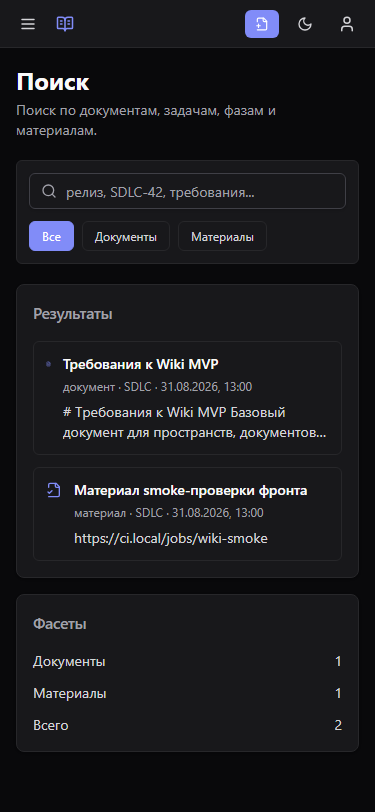
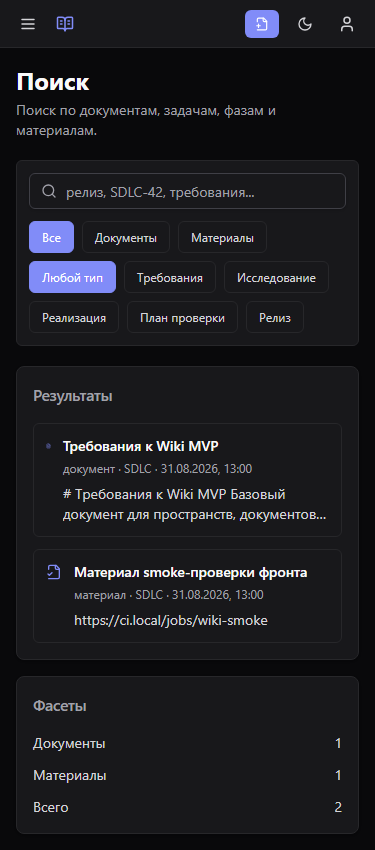
feat: add wiki search type filter

diff --git a/frontend/src/pages/wiki-search/index.tsx b/frontend/src/pages/wiki-search/index.tsx
@@ -8,10 +8,19 @@ import { Input } from '@/shared/ui/input'
 import { formatDateTime } from '@/shared/lib/wiki-format'
 import type { SearchResult } from '@/api/wiki'
 
-const filters = [
+const resultTypeFilters = [
   { label: 'Все', value: 'all' },
   { label: 'Документы', value: 'document' },
   { label: 'Материалы', value: 'evidence' },
+]
+
+const documentTypeFilters = [
+  { label: 'Любой тип', value: 'all' },
+  { label: 'Требования', value: 'requirements' },
+  { label: 'Исследование', value: 'research_note' },
+  { label: 'Реализация', value: 'implementation_note' },
+  { label: 'План проверки', value: 'test_plan' },
+  { label: 'Релиз', value: 'release_note' },
 ]
 
 function resultIcon(type: string) {
@@ -33,13 +42,19 @@ function countResults(results: SearchResult[], type: string) {
 
 export function WikiSearchPage() {
   const [query, setQuery] = useState('')
-  const [filter, setFilter] = useState('all')
-  const searchQuery = useWikiSearch({ q: query, space: defaultSpaceKey, limit: 25 })
+  const [resultTypeFilter, setResultTypeFilter] = useState('all')
+  const [documentTypeFilter, setDocumentTypeFilter] = useState('all')
+  const searchQuery = useWikiSearch({
+    q: query,
+    space: defaultSpaceKey,
+    document_type: documentTypeFilter === 'all' ? undefined : documentTypeFilter,
+    limit: 25,
+  })
   const results = useMemo(() => searchQuery.data?.results ?? [], [searchQuery.data?.results])
   const filteredResults = useMemo(() => {
-    if (filter === 'all') return results
-    return results.filter((result) => result.result_type === filter)
-  }, [filter, results])
+    if (resultTypeFilter === 'all') return results
+    return results.filter((result) => result.result_type === resultTypeFilter)
+  }, [resultTypeFilter, results])
 
   return (
     <div className="space-y-5">
@@ -60,21 +75,39 @@ export function WikiSearchPage() {
             placeholder="релиз, SDLC-42, требования..."
           />
         </div>
-        <div className="flex flex-wrap gap-2">
-          {filters.map((item) => (
-            <button
-              key={item.value}
-              type="button"
-              className={`rounded-md border px-3 py-1.5 text-xs ${
-                filter === item.value
-                  ? 'border-accent bg-accent text-white'
-                  : 'border-border text-text-secondary hover:bg-surface-raised'
-              }`}
-              onClick={() => setFilter(item.value)}
-            >
-              {item.label}
-            </button>
-          ))}
+        <div className="space-y-2">
+          <div className="flex flex-wrap gap-2">
+            {resultTypeFilters.map((item) => (
+              <button
+                key={item.value}
+                type="button"
+                className={`min-h-8 rounded-md border px-3 py-1.5 text-xs ${
+                  resultTypeFilter === item.value
+                    ? 'border-accent bg-accent text-white'
+                    : 'border-border text-text-secondary hover:bg-surface-raised'
+                }`}
+                onClick={() => setResultTypeFilter(item.value)}
+              >
+                {item.label}
+              </button>
+            ))}
+          </div>
+          <div className="flex flex-wrap gap-2">
+            {documentTypeFilters.map((item) => (
+              <button
+                key={item.value}
+                type="button"
+                className={`min-h-8 rounded-md border px-3 py-1.5 text-xs ${
+                  documentTypeFilter === item.value
+                    ? 'border-accent bg-accent text-white'
+                    : 'border-border text-text-secondary hover:bg-surface-raised'
+                }`}
+                onClick={() => setDocumentTypeFilter(item.value)}
+              >
+                {item.label}
+              </button>
+            ))}
+          </div>
         </div>
       </section>
 

diff --git a/frontend/e2e/smoke.spec.ts b/frontend/e2e/smoke.spec.ts
@@ -93,6 +93,8 @@ function routeJson(route: Route, body: unknown, status = 200) {
 }
 
 async function installWikiApiMocks(page: Page) {
+  const searchRequests: string[] = []
+
   await page.route('**/api/v1/**', (route) => {
     const request = route.request()
     const url = new URL(request.url())
@@ -192,6 +194,7 @@ async function installWikiApiMocks(page: Page) {
       })
     }
     if (method === 'GET' && path === '/search') {
+      searchRequests.push(url.search)
       return routeJson(route, {
         results: [
           {
@@ -218,11 +221,13 @@ async function installWikiApiMocks(page: Page) {
 
     return routeJson(route, { error: `Unhandled mock route ${method} ${path}` }, 404)
   })
+
+  return { searchRequests }
 }
 
 test.describe('wiki smoke', () => {
   test('login and navigate through wiki shell pages', async ({ page }) => {
-    await installWikiApiMocks(page)
+    const apiMocks = await installWikiApiMocks(page)
     await page.goto(`${baseURL}/login`)
     await page.getByRole('textbox').nth(0).fill('demo@example.com')
     await page.getByRole('textbox').nth(1).fill('demo')
@@ -246,5 +251,11 @@ test.describe('wiki smoke', () => {
 
     await page.goto(`${baseURL}/search`)
     await expect(page.getByRole('heading', { name: 'Поиск' })).toBeVisible()
+    await page.getByRole('button', { name: 'Требования', exact: true }).click()
+    await expect
+      .poll(() =>
+        apiMocks.searchRequests.some((query) => query.includes('document_type=requirements')),
+      )
+      .toBe(true)
   })
 })

diff --git a/backend/cli/src/main.rs b/backend/cli/src/main.rs
@@ -272,6 +272,8 @@ enum SearchCommands {
         task: Option<String>,
         #[arg(long)]
         phase: Option<String>,
+        #[arg(long = "type")]
+        document_type: Option<String>,
     },
 }
 
@@ -596,12 +598,14 @@ async fn execute_search(api: &ApiClient, command: SearchCommands) -> Result<Valu
             space,
             task,
             phase,
+            document_type,
         } => {
             let query = query_string([
                 ("q", Some(query)),
                 ("space", space),
                 ("task_key", task),
                 ("phase_key", phase),
+                ("document_type", document_type),
             ]);
             api.get(&format!("/search{}", query)).await
         }
@@ -857,6 +861,7 @@ mod tests {
                     space: Some("SDLC KB".to_string()),
                     task: Some("SDLC-42".to_string()),
                     phase: Some("testing".to_string()),
+                    document_type: Some("requirements".to_string()),
                 },
             },
         )
@@ -869,7 +874,7 @@ mod tests {
         assert_eq!(requests[0].method, Method::GET);
         assert_eq!(
             requests[0].path,
-            "/api/v1/search?q=release%20gate&space=SDLC%20KB&task_key=SDLC-42&phase_key=testing"
+            "/api/v1/search?q=release%20gate&space=SDLC%20KB&task_key=SDLC-42&phase_key=testing&document_type=requirements"
         );
         assert_eq!(
             requests[0].authorization.as_deref(),

diff --git a/docs/CURRENT_STATE.md b/docs/CURRENT_STATE.md
@@ -9,7 +9,7 @@
 | Repository scaffold        | Current | `task-tracker` code copied into `wiki`; `.git` from Wiki preserved                                                                                                                                                                                                                                                                       |
 | Product requirements       | Current | `docs/PRODUCT_REQUIREMENTS.md` defines the reduced base Wiki scope                                                                                                                                                                                                                                                                       |
 | Documentation set          | Current | CI/CD-style document set prepared for Wiki                                                                                                                                                                                                                                                                                               |
-| CLI shape                  | Current | `wiki` CLI command surface drafted for public API operations; mocked HTTP smoke tests cover filtered search, document create and file-evidence upload/claim request flow                                                                                                                                                                 |
+| CLI shape                  | Current | `wiki` CLI command surface drafted for public API operations; mocked HTTP smoke tests cover filtered search including `document_type`, document create and file-evidence upload/claim request flow                                                                                                                                       |
 | API runtime                | Current | Runtime router and OpenAPI expose Wiki MVP endpoints only; memory fallback remains for fast tests, while real server config with `WIKI_DATABASE__URL` uses SQLx/PostgreSQL for MVP operations                                                                                                                                            |
 | Registration policy        | Current | Public `/auth/register` is controlled by `WIKI_AUTH__REGISTRATION_ENABLED`; disabled registration returns `403` in memory and PostgreSQL runtime modes                                                                                                                                                                                   |
 | Domain baseline            | Current | `domain::wiki` defines Wiki-owned value objects, roles, documents, revisions, evidence, attachments and core invariants                                                                                                                                                                                                                  |
@@ -18,7 +18,7 @@
 | Attachment storage port    | Current | Attachment bytes are written/read through `domain::wiki::WikiAttachmentStorage`; server wires `infra::LocalWikiAttachmentStorage` for the PostgreSQL runtime, and local storage rejects unsafe or platform-ambiguous storage keys                                                                                                        |
 | Wiki app helpers           | Current | Shared Wiki normalization, role/access predicates, Markdown text extraction, checksums, safe download names, password hashing, Wiki JWT/session token helpers and access/refresh token-pair TTL assembly live in `app::wiki` instead of private API route helpers; the API crate no longer declares direct Wiki auth crypto dependencies |
 | Frontend route shell       | Current | Wiki MVP routes and screenshots exist for the approved page set only                                                                                                                                                                                                                                                                     |
-| Frontend API-backed pages  | Current | Dashboard, spaces, documents, tasks, phases, evidence, templates, users, audit and search read from the public Wiki API; create document, create user, URL evidence and file evidence forms call the same API                                                                                                                            |
+| Frontend API-backed pages  | Current | Dashboard, spaces, documents, tasks, phases, evidence, templates, users, audit and search read from the public Wiki API; search sends the MVP `document_type` filter; create document, create user, URL evidence and file evidence forms call the same API                                                                               |
 | Page design contract       | Current | `docs/PAGE_DESIGN.md` fixes page composition, states and deferred boundaries before backend work                                                                                                                                                                                                                                         |
 | Refined MVP page design    | Current | Spaces, documents, tasks, phases, evidence and search pages include API-ready layouts and metadata blocks                                                                                                                                                                                                                                |
 | Screenshot evidence        | Current | 17 desktop and 5 mobile screenshots regenerated for the MVP page set                                                                                                                                                                                                                                                                     |
@@ -105,6 +105,7 @@ Latest verification on 2026-08-31:
 - `wsl bash -lc 'cargo fmt --manifest-path backend/Cargo.toml --all -- --check'`, `wsl bash -lc 'cargo check --manifest-path backend/Cargo.toml -p shared -p app -p api -p server'`, `wsl bash -lc 'cargo test --manifest-path backend/Cargo.toml -p shared -- --nocapture'`, `wsl bash -lc 'cargo test --manifest-path backend/Cargo.toml -p app wiki_ -- --nocapture'`, `wsl bash -lc 'cargo test --manifest-path backend/Cargo.toml -p api -- --test-threads=1 --nocapture'`, `wsl bash -lc 'cargo clippy --manifest-path backend/Cargo.toml -p shared -p app -p api --all-targets -- -D warnings'`, `wsl bash -lc 'cargo run --manifest-path backend/Cargo.toml -p api --bin openapi-gen -- openapi/openapi.json'`, host `npm run typecheck`, `npm run test`, `npm run lint`, `npm run format:check` and `npm run build` passed after adding the `WIKI_AUTH__REGISTRATION_ENABLED` gate; WSL PostgreSQL smoke still skips without `WIKI_TEST_DATABASE_URL`.
 - `wsl bash -lc 'cargo fmt --manifest-path backend/Cargo.toml --all -- --check'`, `wsl bash -lc 'cargo check --manifest-path backend/Cargo.toml -p shared -p app -p api -p server'`, `wsl bash -lc 'cargo test --manifest-path backend/Cargo.toml -p api -- --test-threads=1 --nocapture'` and `wsl bash -lc 'cargo clippy --manifest-path backend/Cargo.toml -p app -p api --all-targets -- -D warnings'` passed after adding an explicit PostgreSQL-mode API test for disabled public registration. The new test is present but skips in WSL when `WIKI_TEST_DATABASE_URL` is unset.
 - Attempted to start the dedicated `backend/docker-compose.test.yml` PostgreSQL service on `127.0.0.1:3458`, but host Docker CLI calls (`docker compose`, `docker ps`) did not return status and were interrupted. `Test-NetConnection 127.0.0.1 -Port 3458` reported the test DB port closed, so PostgreSQL-backed registration smoke remains blocked by the local Docker environment in this run.
+- `wsl bash -lc 'cargo fmt --manifest-path backend/Cargo.toml --all -- --check'`, `wsl bash -lc 'cargo test --manifest-path backend/Cargo.toml -p wiki-cli -- --nocapture'`, `wsl bash -lc 'cargo clippy --manifest-path backend/Cargo.toml -p wiki-cli --all-targets -- -D warnings'`, host `npm run typecheck`, `npm run test`, `npm run build`, `npm run lint`, `npm run format:check`, `npx playwright test --project=chromium` and `npm run shoot:evidence` passed after wiring the MVP `document_type` search filter through CLI and UI. Screenshot reference and dimension checks passed for 22 PNGs.
 - `wsl bash -lc 'cargo tree --manifest-path backend/Cargo.toml -p api -e normal --depth 1'` confirms the API crate has no direct `argon2`, `jsonwebtoken`, `sha2`, `hex`, `rand_core` or `infra` normal dependency.
 - `wsl bash -lc 'cargo clippy -p app -p api --all-targets -- -D warnings'` passed after cleaning the helper extraction and multipart upload shape.
 - `wsl bash -lc 'cargo clippy --manifest-path backend/Cargo.toml -p app -p api --all-targets -- -D warnings'` passed after the Wiki auth/session helper extraction.

diff --git a/docs/assets/screens/manifest.md b/docs/assets/screens/manifest.md
@@ -4,47 +4,47 @@
 
 ## Capture
 
-| Параметр | Значение |
-|---|---|
-| Tool | Playwright Chromium |
-| Command | `cd frontend && node scripts/shoot-evidence.mjs` |
-| Build source | `vite preview` production bundle |
-| Theme | Dark |
-| Auth state | Mocked authenticated user for private pages |
-| Desktop viewport | 1920x1080 |
-| Mobile viewport | 375x812 |
+| Параметр         | Значение                                         |
+| ---------------- | ------------------------------------------------ |
+| Tool             | Playwright Chromium                              |
+| Command          | `cd frontend && node scripts/shoot-evidence.mjs` |
+| Build source     | `vite preview` production bundle                 |
+| Theme            | Dark                                             |
+| Auth state       | Mocked authenticated user for private pages      |
+| Desktop viewport | 1920x1080                                        |
+| Mobile viewport  | 375x812                                          |
 
 ## Desktop pages
 
-| Файл | Route | Назначение | Размер |
-|---|---|---|---|
-| [01-login.png](../../screenshots/01-login.png) | `/login` | Вход пользователя | 1920x1080 |
-| [02-register.png](../../screenshots/02-register.png) | `/register` | Регистрация пользователя | 1920x1080 |
-| [03-dashboard.png](../../screenshots/03-dashboard.png) | `/` | Dashboard Wiki, последние документы и task-связи | 1920x1080 |
-| [04-spaces.png](../../screenshots/04-spaces.png) | `/spaces` | Пространства и дерево документов | 1920x1080 |
-| [05-document-compose.png](../../screenshots/05-document-compose.png) | `/documents/new` | Создание документа | 1920x1080 |
-| [06-document-view.png](../../screenshots/06-document-view.png) | `/documents/product-requirements` | Просмотр документа и связей | 1920x1080 |
-| [07-task-dossiers.png](../../screenshots/07-task-dossiers.png) | `/tasks` | Карточки задач | 1920x1080 |
-| [08-task-dossier-detail.png](../../screenshots/08-task-dossier-detail.png) | `/tasks/SDLC-42` | Документы и фазы задачи | 1920x1080 |
-| [09-phase-dossiers.png](../../screenshots/09-phase-dossiers.png) | `/phases` | Карточки фаз workflow | 1920x1080 |
-| [10-phase-dossier-detail.png](../../screenshots/10-phase-dossier-detail.png) | `/phases/implementation` | Карточка workflow phase | 1920x1080 |
-| [11-evidence.png](../../screenshots/11-evidence.png) | `/evidence` | Реестр материалов | 1920x1080 |
-| [12-templates.png](../../screenshots/12-templates.png) | `/templates` | Шаблоны документов | 1920x1080 |
-| [13-audit-log.png](../../screenshots/13-audit-log.png) | `/audit-log` | Журнал аудита | 1920x1080 |
-| [14-users.png](../../screenshots/14-users.png) | `/users` | Пользователи и роли | 1920x1080 |
-| [15-settings.png](../../screenshots/15-settings.png) | `/settings` | Настройки инстанса | 1920x1080 |
-| [16-search.png](../../screenshots/16-search.png) | `/search` | Поиск по документам, задачам, фазам и материалам | 1920x1080 |
-| [17-admin.png](../../screenshots/17-admin.png) | `/admin` | Администрирование | 1920x1080 |
+| Файл                                                                         | Route                             | Назначение                                       | Размер    |
+| ---------------------------------------------------------------------------- | --------------------------------- | ------------------------------------------------ | --------- |
+| [01-login.png](../../screenshots/01-login.png)                               | `/login`                          | Вход пользователя                                | 1920x1080 |
+| [02-register.png](../../screenshots/02-register.png)                         | `/register`                       | Регистрация пользователя                         | 1920x1080 |
+| [03-dashboard.png](../../screenshots/03-dashboard.png)                       | `/`                               | Dashboard Wiki, последние документы и task-связи | 1920x1080 |
+| [04-spaces.png](../../screenshots/04-spaces.png)                             | `/spaces`                         | Пространства и дерево документов                 | 1920x1080 |
+| [05-document-compose.png](../../screenshots/05-document-compose.png)         | `/documents/new`                  | Создание документа                               | 1920x1080 |
+| [06-document-view.png](../../screenshots/06-document-view.png)               | `/documents/product-requirements` | Просмотр документа и связей                      | 1920x1080 |
+| [07-task-dossiers.png](../../screenshots/07-task-dossiers.png)               | `/tasks`                          | Карточки задач                                   | 1920x1080 |
+| [08-task-dossier-detail.png](../../screenshots/08-task-dossier-detail.png)   | `/tasks/SDLC-42`                  | Документы и фазы задачи                          | 1920x1080 |
+| [09-phase-dossiers.png](../../screenshots/09-phase-dossiers.png)             | `/phases`                         | Карточки фаз workflow                            | 1920x1080 |
+| [10-phase-dossier-detail.png](../../screenshots/10-phase-dossier-detail.png) | `/phases/implementation`          | Карточка workflow phase                          | 1920x1080 |
+| [11-evidence.png](../../screenshots/11-evidence.png)                         | `/evidence`                       | Реестр материалов                                | 1920x1080 |
+| [12-templates.png](../../screenshots/12-templates.png)                       | `/templates`                      | Шаблоны документов                               | 1920x1080 |
+| [13-audit-log.png](../../screenshots/13-audit-log.png)                       | `/audit-log`                      | Журнал аудита                                    | 1920x1080 |
+| [14-users.png](../../screenshots/14-users.png)                               | `/users`                          | Пользователи и роли                              | 1920x1080 |
+| [15-settings.png](../../screenshots/15-settings.png)                         | `/settings`                       | Настройки инстанса                               | 1920x1080 |
+| [16-search.png](../../screenshots/16-search.png)                             | `/search`                         | Поиск по документам, задачам, фазам и материалам | 1920x1080 |
+| [17-admin.png](../../screenshots/17-admin.png)                               | `/admin`                          | Администрирование                                | 1920x1080 |
 
 ## Mobile checks
 
-| Файл | Route | Назначение | Размер |
-|---|---|---|---|
-| [m-dashboard.png](../../screenshots/m-dashboard.png) | `/` | Dashboard mobile layout | 375x1000 |
-| [m-spaces.png](../../screenshots/m-spaces.png) | `/spaces` | Spaces mobile layout | 375x812 |
+| Файл                                                         | Route                             | Назначение                  | Размер   |
+| ------------------------------------------------------------ | --------------------------------- | --------------------------- | -------- |
+| [m-dashboard.png](../../screenshots/m-dashboard.png)         | `/`                               | Dashboard mobile layout     | 375x1000 |
+| [m-spaces.png](../../screenshots/m-spaces.png)               | `/spaces`                         | Spaces mobile layout        | 375x812  |
 | [m-document-view.png](../../screenshots/m-document-view.png) | `/documents/product-requirements` | Document view mobile layout | 375x1000 |
-| [m-task-dossier.png](../../screenshots/m-task-dossier.png) | `/tasks/SDLC-42` | Task page mobile layout | 375x812 |
-| [m-search.png](../../screenshots/m-search.png) | `/search` | Search mobile layout | 375x812 |
+| [m-task-dossier.png](../../screenshots/m-task-dossier.png)   | `/tasks/SDLC-42`                  | Task page mobile layout     | 375x812  |
+| [m-search.png](../../screenshots/m-search.png)               | `/search`                         | Search mobile layout        | 375x850  |
 
 ## Review checklist
 

diff --git a/docs/CLI.md b/docs/CLI.md
@@ -74,7 +74,7 @@ wiki evidence list --space SDLC --task SDLC-42
 ```bash
 wiki template list
 wiki template apply requirements --space SDLC --title "Requirements"
-wiki search query "authorization" --space SDLC
+wiki search query "authorization" --space SDLC --type requirements
 ```
 
 ## Требования
